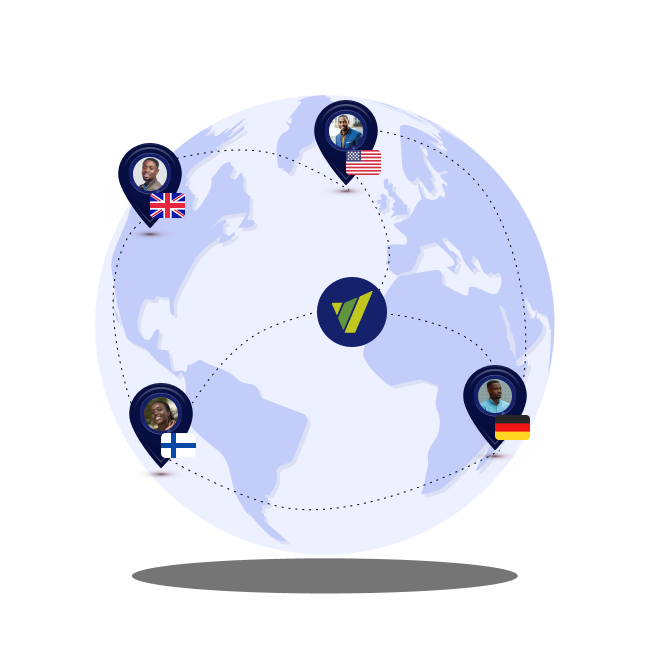
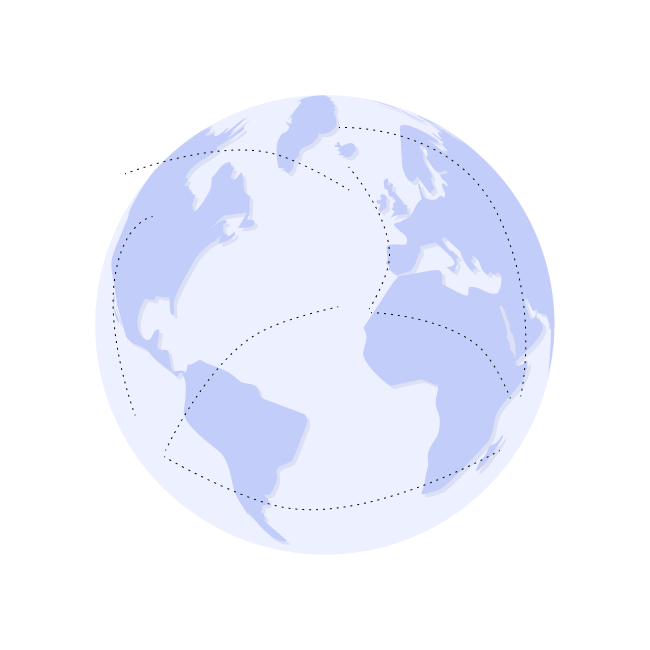
migration services page fixed

diff --git a/src/pages/MigrationServices.jsx b/src/pages/MigrationServices.jsx
@@ -1,8 +1,6 @@
-import WebBanner from "../components/WebBanner";
-import GlobalPic from "../assets/images/globe-mig.png";
-import BgPattern from "../assets/images/pattern-bg.svg";
 import ToCreateCard from "../components/ToCreateCard";
 import Vector from "../assets/logo-icons/Vector.png";
+import Vector1 from "../assets/logo-icons/Vector1.png";
 import { Link } from "react-router-dom";
 import { BsArrowUpRight } from "react-icons/bs";
 import Button from "../components/Button";
@@ -10,43 +8,31 @@ import DownloadApp from "../views/DownloadApp";
 import CardAds from "../components/CardAds";
 import Phones from "../assets/images/phones.png";
 import Testimonials from "../views/Testimonials";
+import MigrationServiceHero from "../views/MigrationServiceHero";
 
 const MigrationServices = () => {
   return (
     <>
-      <div className="bg-secondary w-full pt-10 relative">
-        <img src={BgPattern} alt="pattern" className="absolute top-0 right-0" />
-        <WebBanner
-          title={
-            <h1 className="text-4xl lg:text-4xl xl:text-5xl font-fontSemi pb-5 text-[#ffffff]">
-              Vesti <span className="text-[#67A948]">Migration Services</span>
-            </h1>
-          }
-          details="Vesti empowers immigrants to take control of their financial lives and achieve financial independence. From migration loans to migration advice, we have the tools and resources to help ease the burden of the migration process."
-          buttonText="Get started in minutes"
-          link="#"
-          image={GlobalPic}
-        />
-      </div>
+      <MigrationServiceHero />
       <div className="container py-20 mx-auto grid lg:grid-cols-2 gap-10 lg:gap-16">
         <div className="col-span-1">
           <h1 className="font-fontSemi lg:w-[85%] text-[#14290A] text-4xl pb-4 ">
             Our Offerings
           </h1>
-          <p className="pb-12 text-2xl text-[#2B5219] font-fontReg">
+          <p className="pb-12 text-2xl text-[#2B5219] font-fontLight">
             The migration services we offer
           </p>
 
           <h1 className="font-fontSemi lg:w-[85%] text-[#14290A] text-xl pb-4 ">
             Migration Pathways
           </h1>
-          <p className="pb-6 text-lg text-[#2B5219] font-fontReg">
+          <p className="pb-6 text-lg text-[#2B5219] font-fontLight">
             Our team of experts have the knowledge and experience to help you
             understand the different pathways to migration, such as student
             visa, work visa, and permanent residency.
           </p>
           <div className="flex items-center pb-12 font-fontReg text-[#67A948] text-xl">
-            <Link to="#" className="pr-2">
+            <Link to="https://app.wevesti.com/register" className="pr-2">
               Get Started
             </Link>
             <BsArrowUpRight />
@@ -54,7 +40,7 @@ const MigrationServices = () => {
           <h1 className="font-fontSemi lg:w-[85%] text-[#14290A] text-xl pb-4 ">
             Migration Fees
           </h1>
-          <p className="pb-6 text-lg text-[#2B5219] font-fontReg">
+          <p className="pb-6 text-lg text-[#2B5219] font-fontLight">
             We offer comprehensive support to help you navigate and pay for fees
             such as WES, SEVIS and other immigration-related expenses.
           </p>
@@ -67,7 +53,7 @@ const MigrationServices = () => {
           <h1 className="font-fontSemi lg:w-[85%] text-[#14290A] text-xl pb-4 ">
             Migration Loans
           </h1>
-          <p className="pb-6 text-lg text-[#2B5219] font-fontReg">
+          <p className="pb-6 text-lg text-[#2B5219] font-fontLight">
             We offer loans to help cover the cost of migration-related expenses
             such as visa fees, travel expenses, and legal fees.
           </p>
@@ -117,7 +103,7 @@ const MigrationServices = () => {
             styles="p-4 mx-auto"
           />
         </div>
-        <img src={Vector} alt="shape" className="absolute bottom-0 right-0" />
+        <img src={Vector1} alt="shape" className="absolute bottom-0 right-0" />
       </div>
       <div className="container pb-24 mx-auto ">
         <CardAds

diff --git a/src/views/MigrationServiceHero.jsx b/src/views/MigrationServiceHero.jsx
@@ -1,0 +1,68 @@
+import { Link } from "react-router-dom";
+import BgPattern from "../assets/images/pattern-bg.svg";
+import GlobalPic from "../assets/images/globe-mig.png";
+import UKLocation from "../assets/images/uk-loc.png";
+import USLocation from "../assets/images/us-loc.png";
+import FINLocation from "../assets/images/fin-loc.png";
+import VestiCentral from "../assets/images/vesti-loc.png";
+import Location4 from "../assets/images/ctry-loc.png";
+
+const MigrationServiceHero = () => {
+  return (
+    <div className="bg-secondary w-full pt-28 lg:pt-20 relative overflow-hidden">
+      <img
+        src={BgPattern}
+        alt="pattern"
+        className="absolute right-[-100%] top-0 lg:right-0"
+      />
+      <div className="container mx-auto">
+        <div className="flex flex-col lg:flex-row justify-between items-center">
+          <div className="lg:w-[50%] z-30">
+            <h1 className="text-4xl lg:text-4xl xl:text-5xl font-fontSemi pb-5 text-[#ffffff]">
+              Vesti <span className="text-[#67A948]">Migration Services</span>
+            </h1>
+            <p className="lg:w-[94%] text-lg font-fontLight pb-12 text-[#ffffff]">
+              Vesti empowers immigrants to take control of their financial lives
+              and achieve financial independence. From migration loans to
+              migration advice, we have the tools and resources to help ease the
+              burden of the migration process.
+            </p>
+            <div className="bg-[#67A948] sm:w-[60%] lg:w-[50%] font-fontReg text-center hover:bg-headcol p-4 rounded-xl mb-[70px] text-[#ffffff]">
+              <Link to="">Get started in minutes</Link>
+            </div>
+          </div>
+          <div className="lg:w-[50%] z-30 relative">
+            <img className="w-full" src={GlobalPic} alt="global" />
+            <img
+              className="absolute top-16 left-4 lg:top-36 lg:left-24 md:top-40 md:left-28 sm:top-32 sm:left-20 w-28 animate-bounce"
+              src={UKLocation}
+              alt="global"
+            />
+            <img
+              className="absolute top-10 left-28 lg:top-28 lg:left-72 md:top-32 md:left-72 sm:top-24 sm:left-64 w-28 animate-bounce"
+              src={USLocation}
+              alt="global"
+            />
+            <img
+              className="absolute bottom-20 left-16 lg:bottom-44 lg:left-32 sm:bottom-48 sm:left-32 w-16 animate-bounce"
+              src={FINLocation}
+              alt="global"
+            />
+            <img
+              className="absolute top-32 right-32 lg:top-64 lg:right-64 md:top-72 md:right-64 sm:top-60 sm:right-60 w-16"
+              src={VestiCentral}
+              alt="global"
+            />
+            <img
+              className="absolute bottom-16 right-10 lg:bottom-36 lg:right-28 sm:bottom-44 sm:right-20 w-28 animate-bounce"
+              src={Location4}
+              alt="global"
+            />
+          </div>
+        </div>
+      </div>
+    </div>
+  );
+};
+
+export default MigrationServiceHero;

diff --git a/src/views/Offerings.jsx b/src/views/Offerings.jsx
@@ -18,12 +18,12 @@ const Offerings = () => {
         </div>
 
         {/* Offerings Listed in Cards */}
-        <div className="grid lg:grid-cols-3 lg:grid-rows-2 gap-10 md:grid-cols-2 md:grid-rows-2 md:gap-5">
+        <div className="grid lg:grid-cols-4 gap-20 md:grid-cols-2 md:grid-rows-2 md:gap-5">
           <div className="flex ">
             <div>
               <img src={Convenient} alt="convenient" />
             </div>
-            <div className="pl-5 md:pl-3 w-[90%]">
+            <div className="pl-5 md:pl-3 w-[70%]">
               <h3 className="text-[#14290A] font-fontReg text-lg pb-1 ">
                 Convenient
               </h3>
@@ -36,7 +36,7 @@ const Offerings = () => {
             <div>
               <img src={Speed} alt="speed" />
             </div>
-            <div className="pl-5 md:pl-3 w-[90%]">
+            <div className="pl-5 md:pl-3 w-[70%]">
               <h3 className="text-[#14290A] font-fontReg text-lg pb-1">
                 Speedy
               </h3>
@@ -49,7 +49,7 @@ const Offerings = () => {
             <div>
               <img src={Rates} alt="rates" />
             </div>
-            <div className="pl-5 md:pl-3 w-[90%]">
+            <div className="pl-5 md:pl-3 w-[70%]">
               <h3 className="text-[#14290A] font-fontReg text-lg pb-1">
                 Fair Rates
               </h3>
@@ -58,12 +58,11 @@ const Offerings = () => {
               </p>
             </div>
           </div>
-          <div className="hidden lg:block w-[90%]"></div>
           <div className="flex">
             <div>
               <img src={Padlock} alt="lock" />
             </div>
-            <div className="pl-5 md:pl-3 w-[90%]">
+            <div className="pl-5 md:pl-3 w-[70%]">
               <h3 className="text-[#14290A] font-fontReg text-lg pb-1">
                 Secure
               </h3>
@@ -73,6 +72,7 @@ const Offerings = () => {
               </p>
             </div>
           </div>
+          {/* <div className="hidden lg:block w-[90%]"></div> */}
         </div>
       </div>
     </div>

diff --git a/src/views/PathwaySlides.jsx b/src/views/PathwaySlides.jsx
@@ -1,5 +1,8 @@
 import { useState } from "react";
 import PathwayImage from "../assets/images/pathway-image.png";
+import PathwayImageZM from "../assets/images/pathway-img-zm.png";
+import PathwayImageGH from "../assets/images/pathway-img-gh.png";
+import PathwayImageMX from "../assets/images/pathway-img-mx.png";
 import CardImage from "../assets/images/mycards-image.png";
 import WalletImage from "../assets/images/wallets-image.png";
 import ActiveCard from "../components/ActiveCard";
@@ -10,6 +13,7 @@ const GetStartedDescription = [
     title: "Pathways software for global migration",
     desc: "Vesti gives humans the power to move overseas to 110 Countries.",
     image: PathwayImage,
+    // image: [PathwayImage, PathwayImageZM, PathwayImageGH, PathwayImageMX],
     learnMore: "/",
   },
   {

diff --git a/src/containers/Footer.jsx b/src/containers/Footer.jsx
@@ -102,7 +102,10 @@ const Footer = () => {
                   </ul>
                 </div>
               </div>
-              <div>
+              <li className="text-sm font-fontLight hover:text-vestigreen hover:font-fontSemi pt-2">
+                <Link to="/migration-services">Migration Services</Link>
+              </li>
+              {/* <div>
                 <div
                   className="text-sm font-fontLight pb-1 hover:font-fontSemi flex items-center cursor-pointer"
                   onClick={() => toggleShow("migration")}
@@ -134,7 +137,7 @@ const Footer = () => {
                     </li>
                   </ul>
                 </div>
-              </div>
+              </div> */}
             </ul>
           </div>
           <div>

diff --git a/src/components/ActiveCard.js b/src/components/ActiveCard.js
@@ -17,7 +17,7 @@ const ActiveCard = ({
         className={`${addStyles} ${
           activeTrx === index &&
           "transition duration-300 ease-in-out border-l-vestigreen opacity-100"
-        } opacity-50 py-5  cursor-pointer pl-4 ${click} border-l-4`}
+        } opacity-50 py-8 cursor-pointer pl-4 ${click} border-l-4`}
         onClick={() => onClick()}
       >
         <h1 className="text-[#14290A] text-xl mb-2 font-fontReg">{title}</h1>
